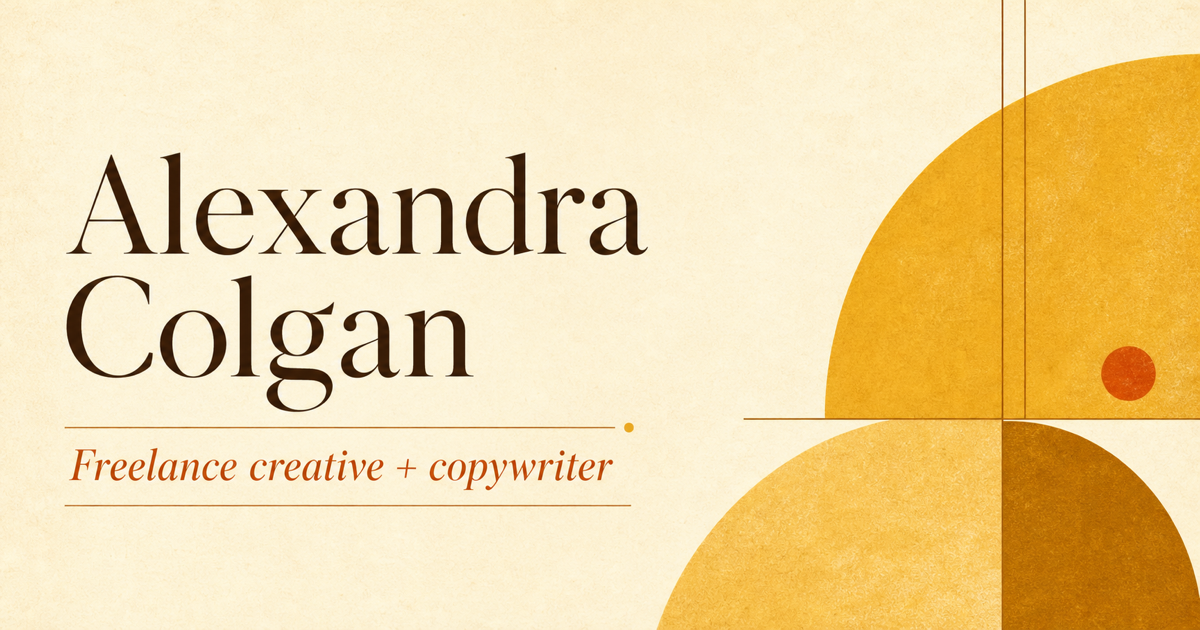
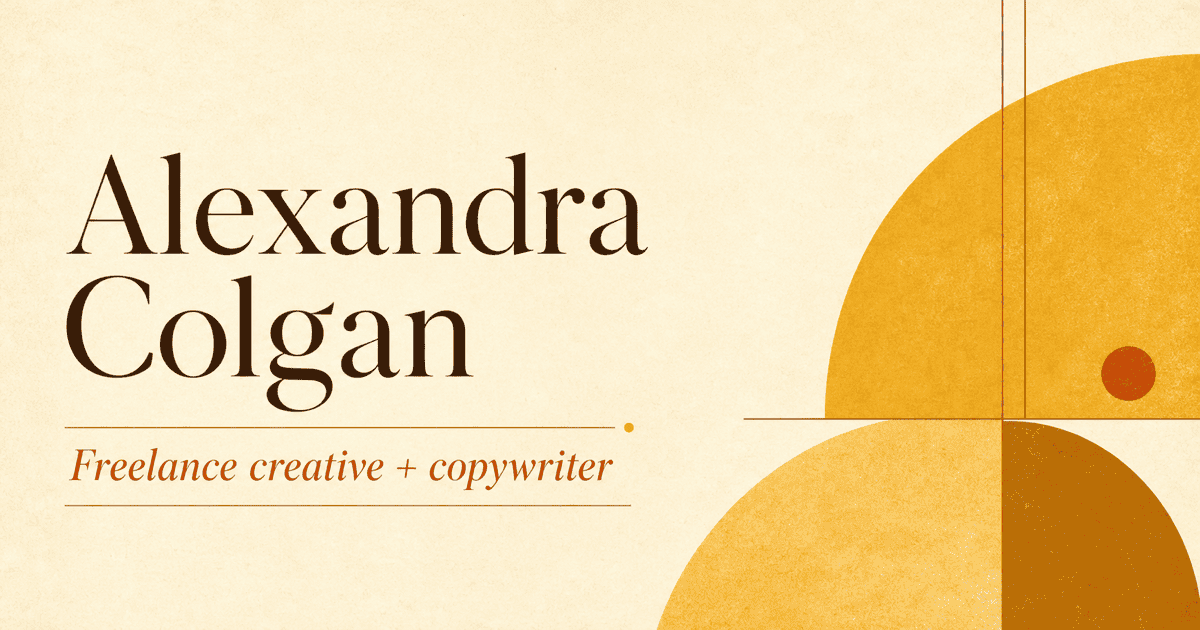
Fix per-page canonical/OG metadata, US spellings, and og.png size
Job 1 — app/layout.js hardcoded alternates.canonical to the absolute
homepage URL, and every page without its own canonical (about, contact,
open-tabs, portfolio) inherited it — telling Google the homepage was the
"real" version of those pages too. Changed the root to a relative "/"
and gave each of those four its own canonical, matching the existing
yoga/babywearing/coding/currently pattern.

Job 2 — same root cause, bigger everyday effect: no page but the root
defined openGraph, so every page's link preview (title, description,
url) was the homepage's. Went with the "explicit openGraph per page"
fallback the brief allowed, since Next's metadata objects can't
auto-derive openGraph from a page's own title/description — each page
now shares its title/description into openGraph via a local const
instead of retyping the strings. og:url is now the page's own relative
path everywhere. /babywearing and /yoga use the exact copy specified;
/coding, /currently, /open-tabs, /about, /contact, /portfolio construct
their og:title from the same title Next resolves via the template.
Also fixed the babywearing service schema's provider.url, which still
pointed at www.alexandracolgan.com.

Job 3 — swapped the three British spellings in portfolioWork
(prioritise, programmes, travellers) for US spellings. Grepped the
whole repo for the rest of the common list (colour, favourite, centre,
practise, licence, whilst, organisation, catalogue, grey, -ise/-isation
endings, etc.) — found none.
[…]

diff --git a/app/site-data.js b/app/site-data.js
@@ -241,7 +241,7 @@ export const portfolioWork = [
     type: "Website rebrand and copywriting",
     background: "Redo the entire HBF website with rebranding and new copywriting.",
     insight:
-      "The Foundation needed a digital home that could bring its community work, programmes and stories together in one clearer experience.",
+      "The Foundation needed a digital home that could bring its community work, programs and stories together in one clearer experience.",
     idea: "A full website revamp supported by new copywriting, alongside social content and activation ideas for volunteer appreciation and engagement.",
     image: "/home/work-hbf.webp",
     imageAlt: "The Hongkong Bank Foundation website homepage.",
@@ -263,7 +263,7 @@ export const portfolioWork = [
     title: "APAC Vision Health Survey",
     type: "Social video",
     background:
-      "Develop video assets that bring the APAC Vision Health Survey to life, creating new opportunities to engage key stakeholders across APAC on the need to prioritise vision health.",
+      "Develop video assets that bring the APAC Vision Health Survey to life, creating new opportunities to engage key stakeholders across APAC on the need to prioritize vision health.",
     insight:
       "The survey data was comprehensive, but in order to easily reach stakeholders and everyday people the findings needed a format they'd actually watch and pass along.",
     idea: "A social video summarising the survey's key findings through animated graphics, built to travel across APAC markets.",
@@ -278,7 +278,7 @@ export const portfolioWork = [
     background:
       "The first ever World of Frozen was coming to HK Disneyland. We needed to create buzz for this grand opening.",
     insight:
-      "We made Arendelle feel like a real tourist destination for both Hong Kongers and SEA travellers.",
+      "We made Arendelle feel like a real tourist destination for both Hong Kongers and SEA travelers.",
     idea: "We invited people to travel, explore and experience the culture and offerings of Arendelle through a series of tourism-style OOH, contextual, and banner ads.",
     image: "/case-studies/visit-arendelle.webp",
     imageAlt: "Tourism Arendelle launch campaign key art for Hong Kong Disneyland's World of Frozen.",

diff --git a/app/contact/page.js b/app/contact/page.js
@@ -2,12 +2,21 @@ import SiteShell from "../site-shell";
 import ContactForm from "../contact-form";
 import { services } from "../site-data";
 
+const pageTitle = "Contact Alexandra Colgan | Freelance Creative Copywriter";
+const pageDescription =
+  "Get in touch with Alexandra Colgan for freelance copywriting, creative concepts, brand voice, website copy and creative collaborations.";
+
 export const metadata = {
   // The doc's title is already a complete SEO title (name included), so it
   // uses `absolute` to skip layout.js's "%s | Alexandra Colgan" template.
-  title: { absolute: "Contact Alexandra Colgan | Freelance Creative Copywriter" },
-  description:
-    "Get in touch with Alexandra Colgan for freelance copywriting, creative concepts, brand voice, website copy and creative collaborations.",
+  title: { absolute: pageTitle },
+  description: pageDescription,
+  alternates: { canonical: "contact" },
+  openGraph: {
+    title: pageTitle,
+    description: pageDescription,
+    url: "contact",
+  },
 };
 
 export default function ContactPage() {

diff --git a/app/about/page.js b/app/about/page.js
@@ -2,12 +2,21 @@ import Image from "next/image";
 import Link from "next/link";
 import SiteShell from "../site-shell";
 
+const pageTitle = "About Alexandra Colgan | Creative Copywriter in Hong Kong";
+const pageDescription =
+  "Meet Alexandra Colgan, a Hong Kong-based freelance creative and copywriter who helps brands make sense of what they want to say.";
+
 export const metadata = {
   // The doc's title is already a complete SEO title (name included), so it
   // uses `absolute` to skip layout.js's "%s | Alexandra Colgan" template.
-  title: { absolute: "About Alexandra Colgan | Creative Copywriter in Hong Kong" },
-  description:
-    "Meet Alexandra Colgan, a Hong Kong-based freelance creative and copywriter who helps brands make sense of what they want to say.",
+  title: { absolute: pageTitle },
+  description: pageDescription,
+  alternates: { canonical: "about" },
+  openGraph: {
+    title: pageTitle,
+    description: pageDescription,
+    url: "about",
+  },
 };
 
 export default function AboutPage() {

diff --git a/app/portfolio/page.js b/app/portfolio/page.js
@@ -3,10 +3,18 @@ import { LogoMarquee } from "../site-sections";
 import { PortfolioWork } from "../portfolio-work";
 import { homeContact, portfolioIntro, portfolioSelectedWork } from "../site-data";
 
+const pageDescription =
+  "Selected work for Sunkist, Hongkong Bank Foundation, Roche, Hong Kong Disneyland and Tropicana. Campaigns, brand platforms and copy by Alexandra Colgan.";
+
 export const metadata = {
   title: "Portfolio",
-  description:
-    "Brands Alexandra Colgan has worked with across beauty, finance, hospitality, technology, automotive, food, healthcare, and luxury.",
+  description: pageDescription,
+  alternates: { canonical: "portfolio" },
+  openGraph: {
+    title: "Portfolio | Alexandra Colgan",
+    description: pageDescription,
+    url: "portfolio",
+  },
 };
 
 export default function PortfolioPage() {

diff --git a/app/babywearing/page.js b/app/babywearing/page.js
@@ -13,6 +13,12 @@ export const metadata = {
     "babywearing consultation",
   ],
   alternates: { canonical: "babywearing" },
+  openGraph: {
+    title: "Babywearing Consultant in Hong Kong | Alexandra Colgan",
+    description:
+      "Certified babywearing consultant in Hong Kong. Carrier fitting, carrier selection and troubleshooting, in person or online.",
+    url: "babywearing",
+  },
 };
 
 // Tells search engines explicitly what this page offers, where, and by whom.
@@ -26,7 +32,7 @@ const serviceSchema = {
   provider: {
     "@type": "Person",
     name: "Alexandra Colgan",
-    url: "https://www.alexandracolgan.com",
+    url: "https://alexandracolgan.com",
     email: "alexandracolgan@gmail.com",
     hasCredential: {
       "@type": "EducationalOccupationalCredential",

diff --git a/app/open-tabs/page.js b/app/open-tabs/page.js
@@ -1,10 +1,18 @@
 import SiteShell from "../site-shell";
 import { ContactPanel, OpenTabsGrid } from "../site-sections";
 
+const pageDescription =
+  "Yoga, babywearing, coding, and what Alexandra Colgan is currently reading, listening to and writing.";
+
 export const metadata = {
   title: "Open Tabs",
-  description:
-    "Yoga, babywearing, coding, and what Alexandra Colgan is currently reading, listening to and writing.",
+  description: pageDescription,
+  alternates: { canonical: "open-tabs" },
+  openGraph: {
+    title: "Open Tabs | Alexandra Colgan",
+    description: pageDescription,
+    url: "open-tabs",
+  },
 };
 
 export default function OpenTabsPage() {

diff --git a/app/yoga/page.js b/app/yoga/page.js
@@ -6,6 +6,12 @@ export const metadata = {
   title: tab.metaTitle,
   description: tab.metaDescription,
   alternates: { canonical: "yoga" },
+  openGraph: {
+    title: "Yoga | Alexandra Colgan",
+    description:
+      "200-hour certified yoga teacher trained at Pure Yoga Hong Kong. Dynamic, playful classes with a focus on arm balances and inversions.",
+    url: "yoga",
+  },
 };
 
 export default function Page() {

diff --git a/app/currently/page.js b/app/currently/page.js
@@ -6,6 +6,11 @@ export const metadata = {
   title: tab.metaTitle,
   description: tab.metaDescription,
   alternates: { canonical: "currently" },
+  openGraph: {
+    title: `${tab.metaTitle} | Alexandra Colgan`,
+    description: tab.metaDescription,
+    url: "currently",
+  },
 };
 
 export default function Page() {

diff --git a/app/coding/page.js b/app/coding/page.js
@@ -6,6 +6,11 @@ export const metadata = {
   title: tab.metaTitle,
   description: tab.metaDescription,
   alternates: { canonical: "coding" },
+  openGraph: {
+    title: `${tab.metaTitle} | Alexandra Colgan`,
+    description: tab.metaDescription,
+    url: "coding",
+  },
 };
 
 export default function Page() {

diff --git a/app/layout.js b/app/layout.js
@@ -45,7 +45,7 @@ export const metadata = {
     images: ["/og.png"],
   },
   alternates: {
-    canonical: "https://alexandracolgan.com",
+    canonical: "/",
   },
   category: "portfolio",
 };
